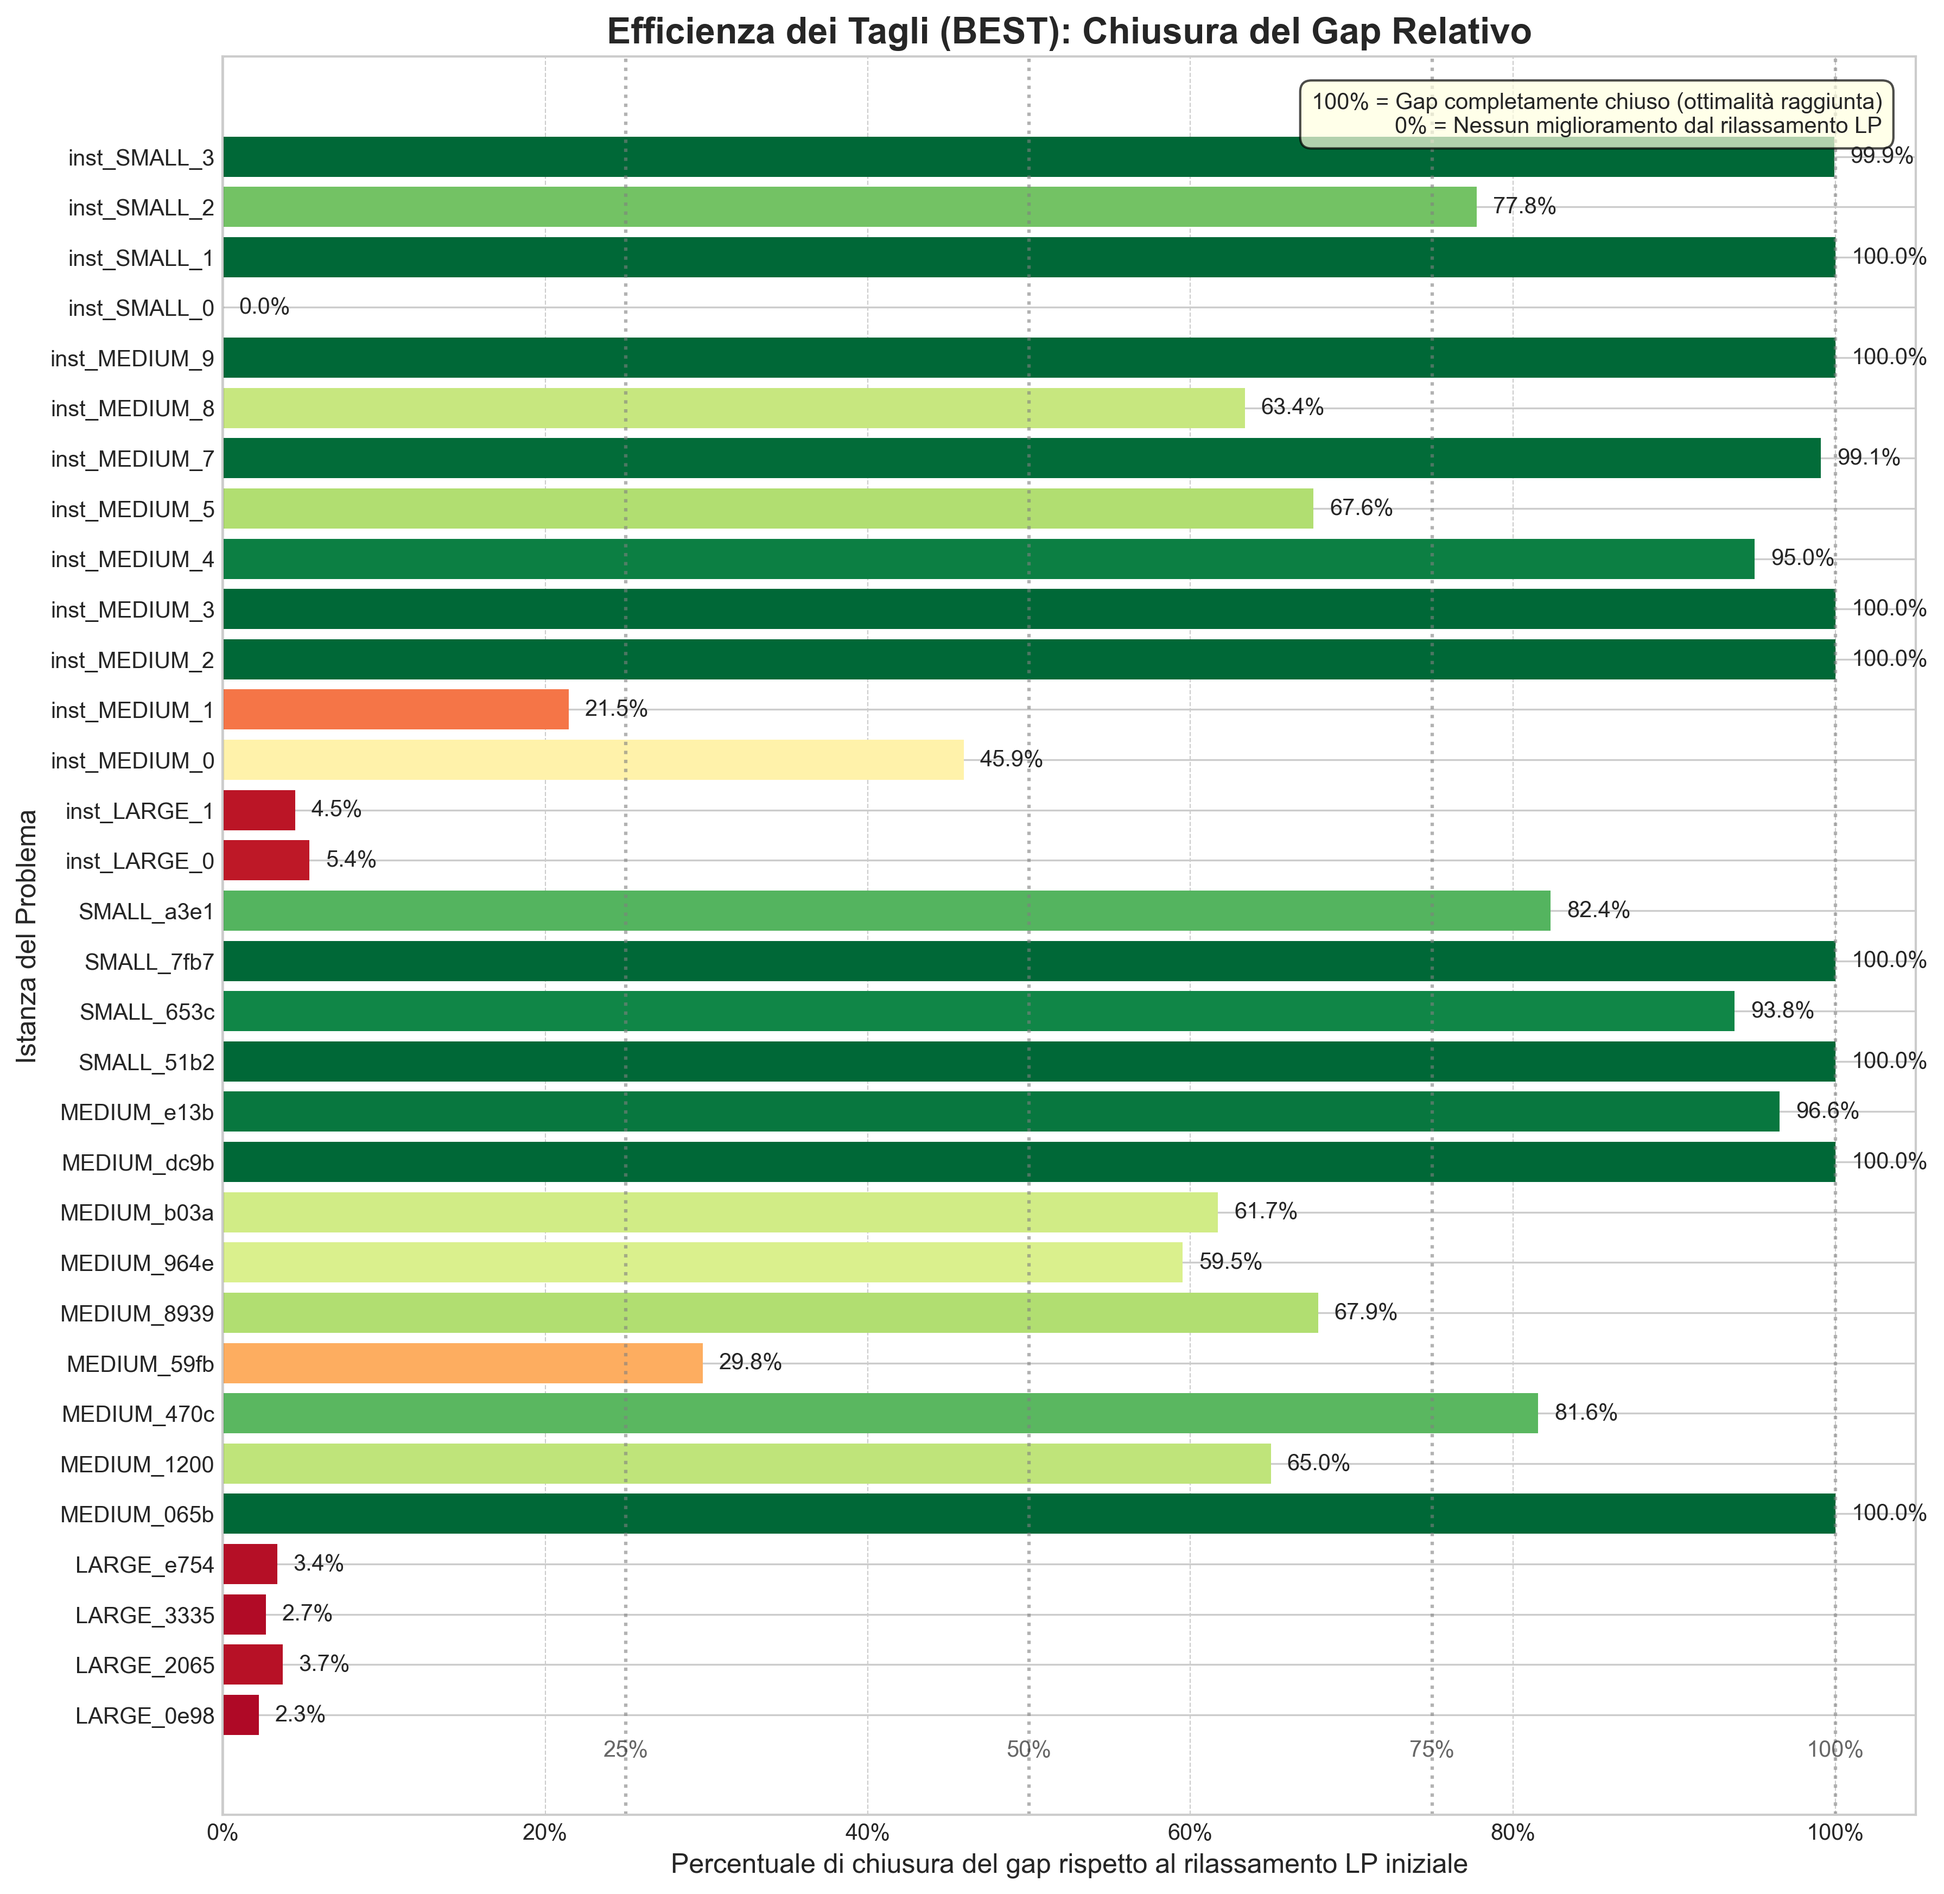
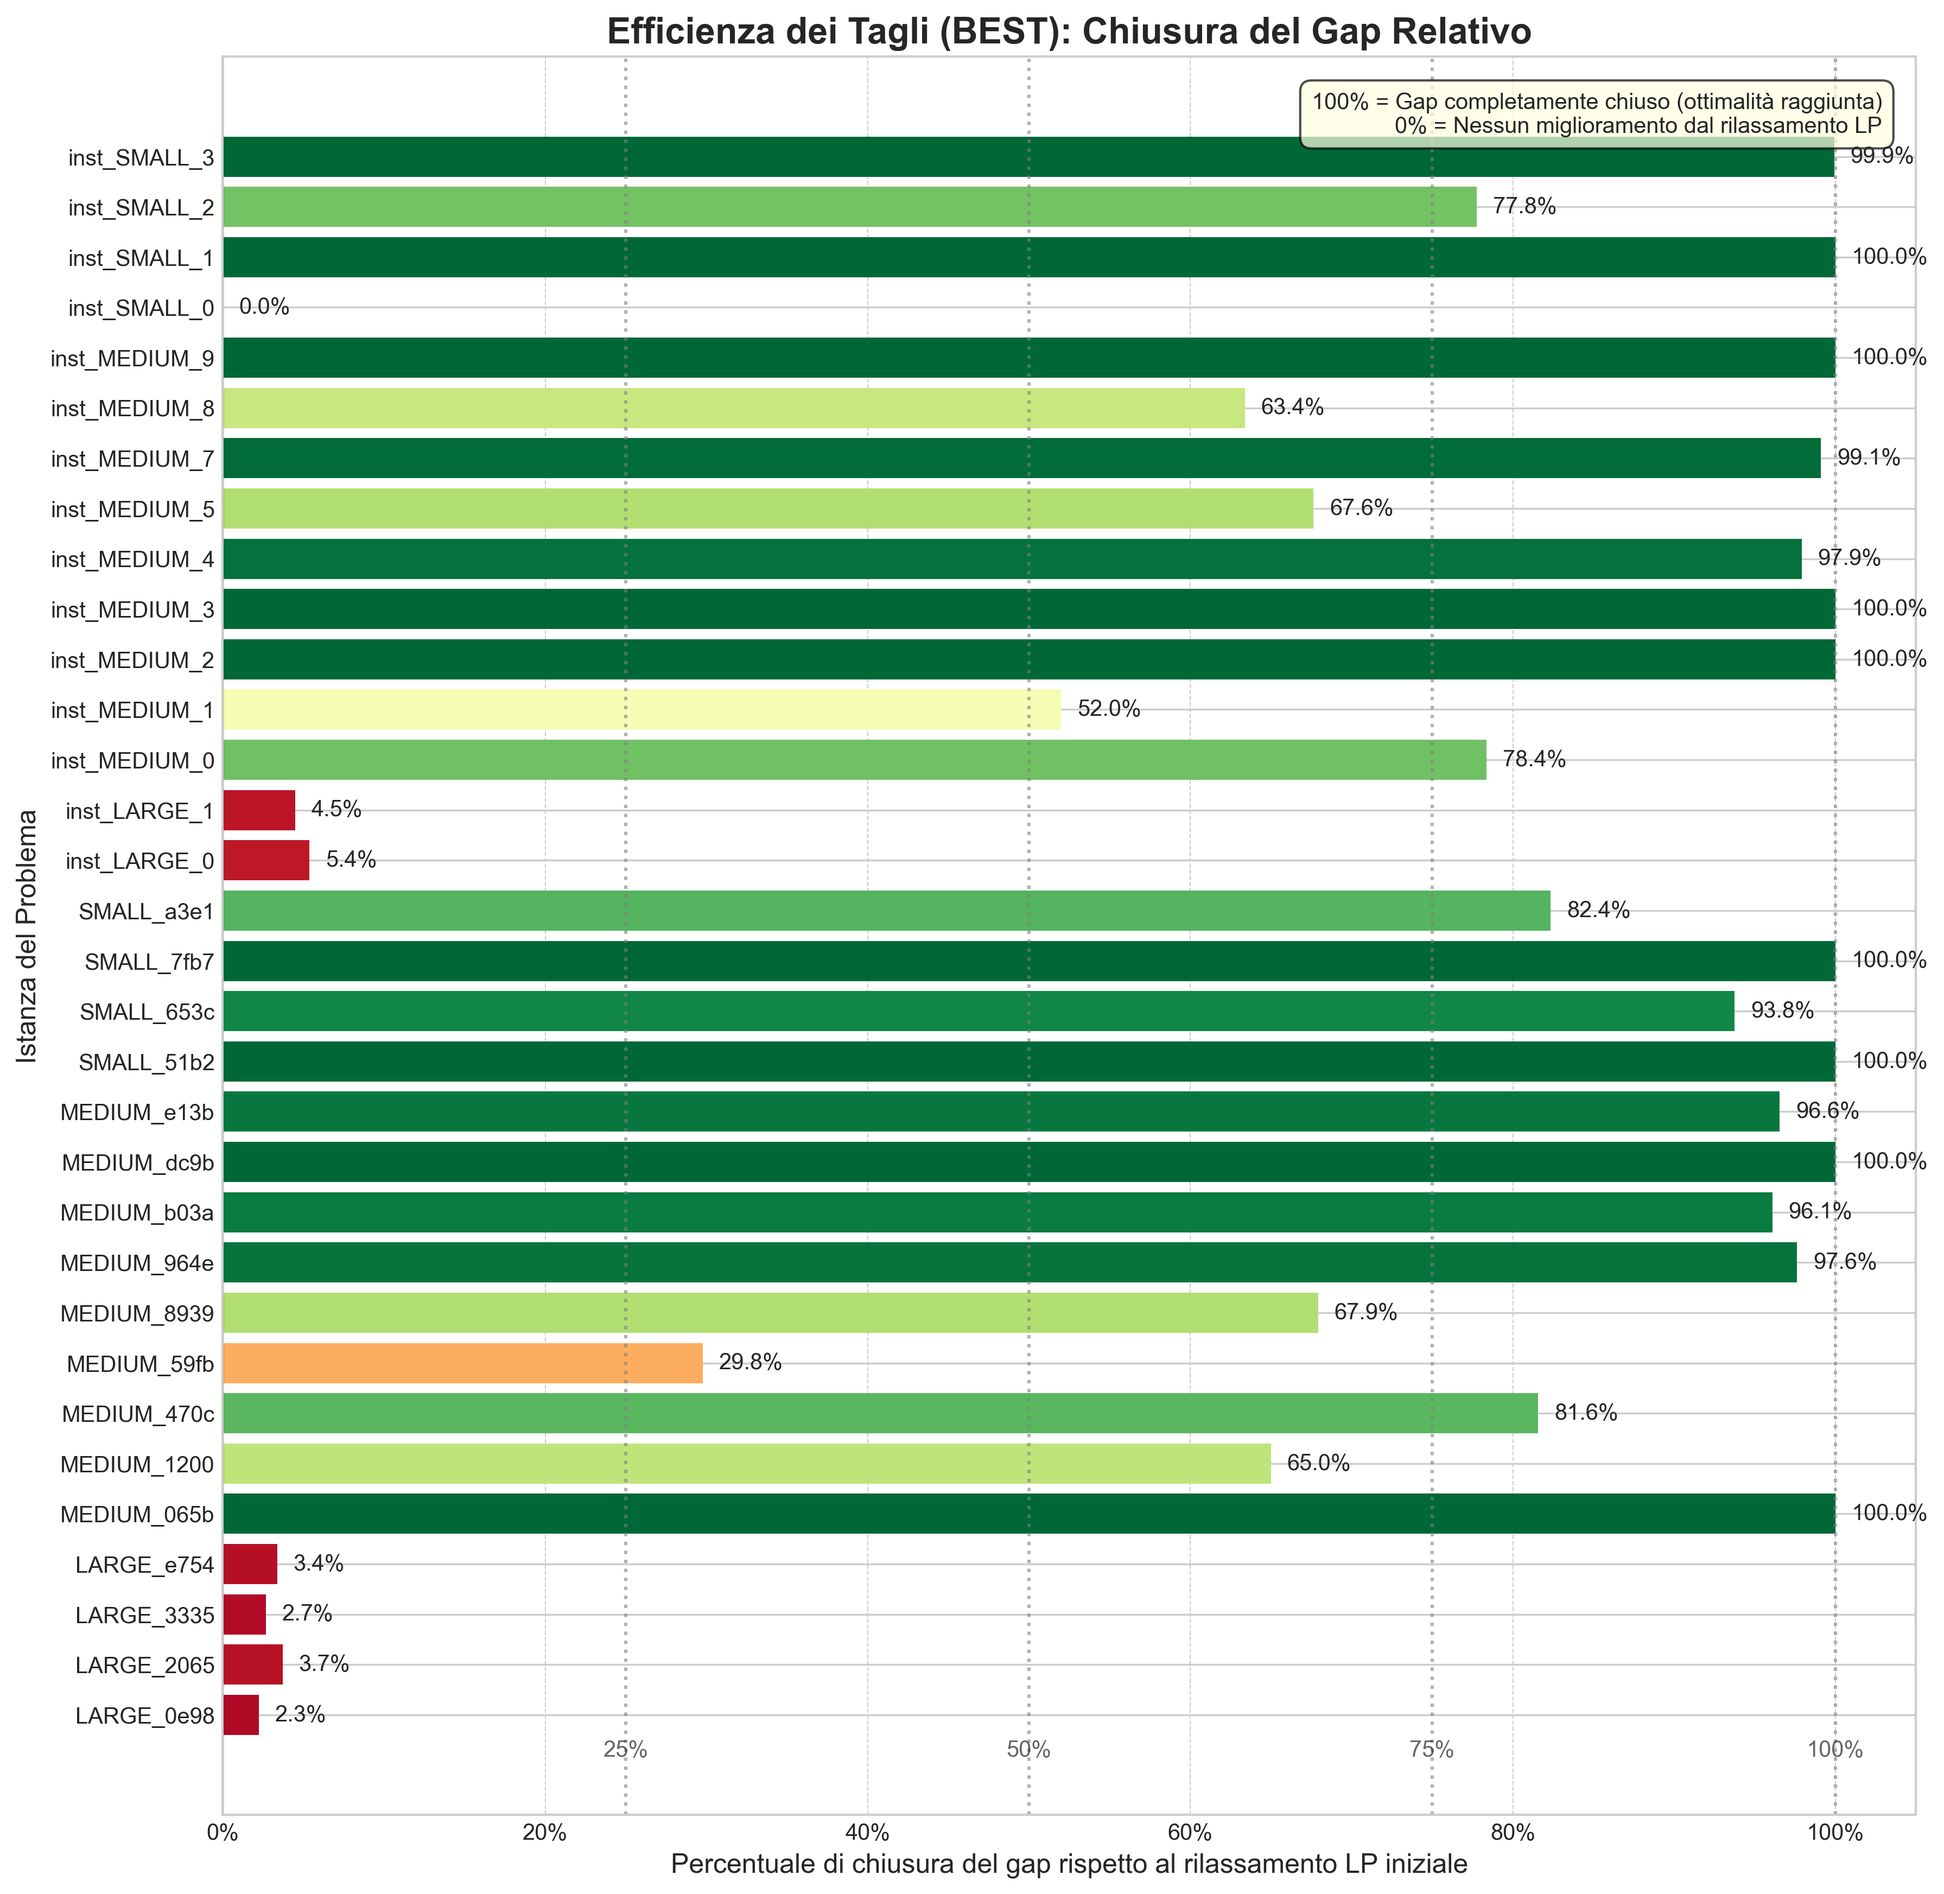
Migliorie

Changed region(s): [[0.093, 0.3436, 0.7747, 0.4372], [0.093, 0.6246, 0.9296, 0.6871], [0.8987, 0.2811, 0.9606, 0.3123]]

diff --git a/src/algorithm/gomory.py b/src/algorithm/gomory.py
@@ -242,7 +242,7 @@ class Gomory:
                         cuts_gfc.sort(key=lambda x: x.get('violation', 0), reverse=True)
 
                         len_gmi = len(cuts_gmi)
-                        len_gfc = len(cuts_gmi)
+                        len_gfc = len(cuts_gfc)
                         max_len= max(len_gmi, len_gfc)
                         for i in range(max_len):
                             if i < len_gmi:
